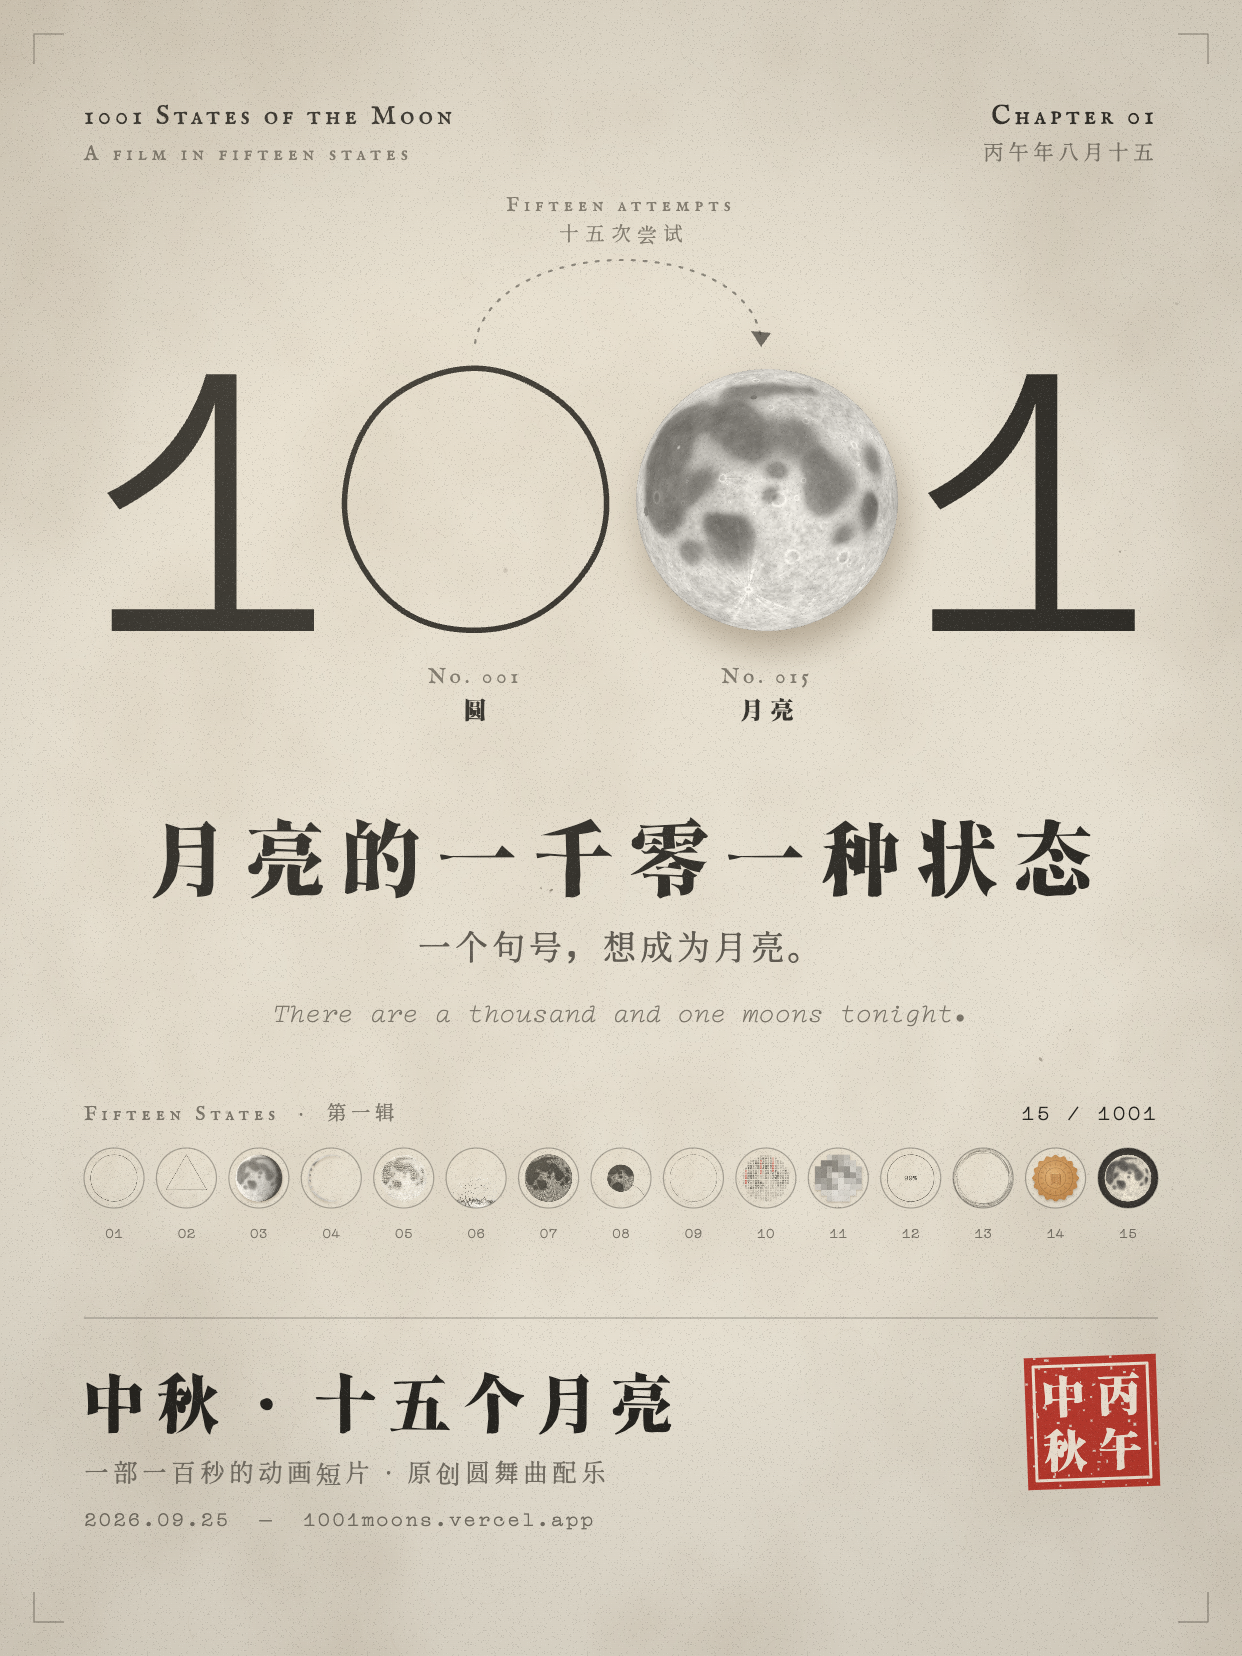
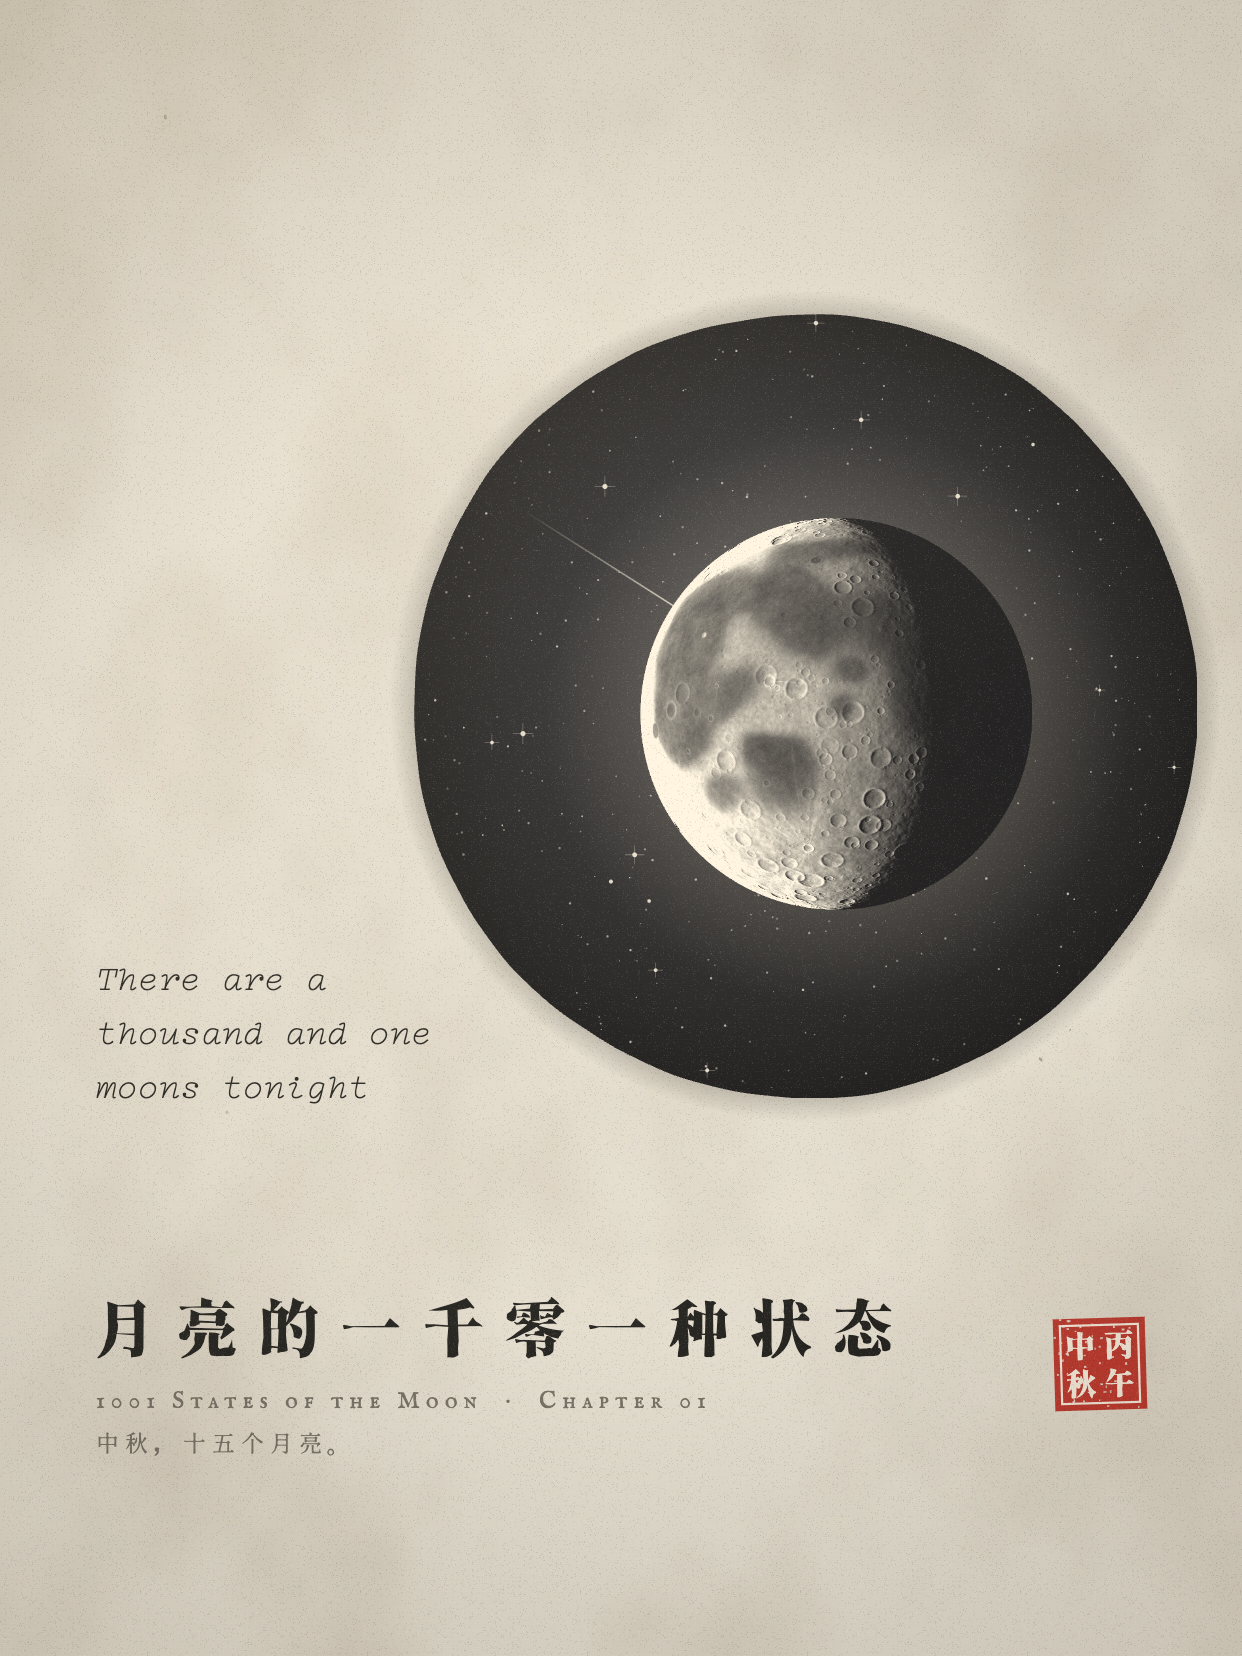
封面改版：句号里的夜空
一句打字机打出的英文，句号放大成装着星空与凸月的墨点；只留刻宋标题与印章

diff --git a/index.html b/index.html
@@ -1244,119 +1244,84 @@ function hud(ctx, e, st, opts, dark, A = 1) {
    「1○●1」——两个 0，一个是空的圆，一个是月亮
    ============================================================ */
 function renderCover() {
-  const W = 1242, H = 1656, M = 84;
+  const W = 1242, H = 1656, M = 96;
   document.body.innerHTML = '';
   document.body.style.cssText = 'margin:0;background:#121110;display:flex;justify-content:center;padding:24px 16px';
   const cv = mk(W, H); cv.id = 'cover';
   cv.style.cssText = 'display:block;width:min(100%,621px);height:auto;box-shadow:0 30px 80px rgba(0,0,0,.5)';
   document.body.appendChild(cv);
-  const x = cv.getContext('2d'), C = W / 2;
-  const SUB = '#6F6A60';
+  const x = cv.getContext('2d'), SUB = '#716B60';
   // 纸
   x.fillStyle = PAPER; x.fillRect(0, 0, W, H);
-  x.globalAlpha = .9; x.drawImage(mottle(), 0, 0, W, H); x.globalAlpha = 1;
-  // 一行行细小的纸纤维
-  const rf = mulberry(77); x.strokeStyle = 'rgba(110,85,50,.05)'; x.lineWidth = .8;
-  for (let i = 0; i < 260; i++) { const px = rf() * W, py = rf() * H, a = rf() * TAU, l = 6 + rf() * 16; x.beginPath(); x.moveTo(px, py); x.quadraticCurveTo(px + Math.cos(a + 1) * l, py + Math.sin(a + 1) * l, px + Math.cos(a) * l * 1.7, py + Math.sin(a) * l * 1.7); x.stroke(); }
+  x.globalAlpha = .95; x.drawImage(mottle(), 0, 0, W, H); x.globalAlpha = 1;
+  const rf = mulberry(77); x.strokeStyle = 'rgba(110,85,50,.045)'; x.lineWidth = .8;
+  for (let i = 0; i < 300; i++) { const px = rf() * W, py = rf() * H, a = rf() * TAU, l = 6 + rf() * 16; x.beginPath(); x.moveTo(px, py); x.quadraticCurveTo(px + Math.cos(a + 1) * l, py + Math.sin(a + 1) * l, px + Math.cos(a) * l * 1.7, py + Math.sin(a) * l * 1.7); x.stroke(); }
 
-  // 左右上角：版面标签
-  x.fillStyle = INK; x.font = FELL(27); track(x, 4); x.textBaseline = 'alphabetic';
-  x.textAlign = 'left'; x.fillText('1001 States of the Moon', M, M + 40);
-  x.textAlign = 'right'; x.fillText('Chapter 01', W - M, M + 40);
-  x.fillStyle = SUB; x.font = FELL(21); track(x, 5);
-  x.textAlign = 'left'; x.fillText('A film in fifteen states', M, M + 76);
-  x.textAlign = 'right'; x.font = ZH(400, 21); track(x, 4); x.fillText('丙午年八月十五', W - M, M + 76);
-  track(x, 0);
-
-  // ——— 主视觉：1 ○ ● 1 ———
-  const D = 262, gap = 30, cy = 500;
-  x.font = MONO(400); const asc = x.measureText('1').actualBoundingBoxAscent || 250;
-  const fs1 = 400 * (D * .98) / asc; x.font = MONO(fs1);
-  const w1 = x.measureText('1').width, bw = x.measureText('1').actualBoundingBoxRight + x.measureText('1').actualBoundingBoxLeft;
-  const total = bw * 2 + D * 2 + gap * 3, x0 = C - total / 2;
-  const base = cy + D / 2;
-  x.fillStyle = INK; x.textAlign = 'left';
-  const L1 = x.measureText('1').actualBoundingBoxLeft;
-  x.fillText('1', x0 + L1, base);
-  const rcx = x0 + bw + gap + D / 2, mcx = rcx + D + gap;
-  x.fillText('1', mcx + D / 2 + gap + L1, base);
-  // 空的圆：手画的墨线
-  x.strokeStyle = INK; x.lineWidth = 5.5; x.lineJoin = 'round'; x.beginPath();
-  for (let i = 0; i <= 240; i++) { const th = i / 240 * TAU, r = D / 2 * (1 + .006 * Math.sin(3 * th + 1.3) + .004 * Math.sin(7 * th - .4)); const px = rcx + r * Math.cos(th), py = cy + r * Math.sin(th); i ? x.lineTo(px, py) : x.moveTo(px, py); }
-  x.closePath(); x.stroke();
-  // 月亮：带着纸上的投影
-  x.save(); x.shadowColor = 'rgba(78,56,30,.38)'; x.shadowBlur = 34; x.shadowOffsetX = 6; x.shadowOffsetY = 20;
-  x.drawImage(FULL.paper, mcx - D / 2, cy - D / 2, D, D); x.restore();
-  // 从圆到月亮的一道虚线弧：十五次尝试
-  x.save(); x.setLineDash([3, 9]); x.lineCap = 'round'; x.strokeStyle = 'rgba(27,26,23,.55)'; x.lineWidth = 2.2;
-  const ax = rcx, bx = mcx, ay = cy - D / 2 - 26, hy = ay - 110;
-  x.beginPath(); x.moveTo(ax, ay); x.bezierCurveTo(ax + 20, hy, bx - 20, hy, bx - 6, ay - 4); x.stroke(); x.restore();
-  x.fillStyle = 'rgba(27,26,23,.7)'; x.beginPath(); x.moveTo(bx - 6, ay + 4); x.lineTo(bx - 16, ay - 12); x.lineTo(bx + 4, ay - 10); x.closePath(); x.fill();
-  x.textAlign = 'center'; x.fillStyle = SUB; x.font = FELL(20); track(x, 5); x.fillText('Fifteen attempts', C, hy - 22);
-  x.font = ZH(400, 20); track(x, 6); x.fillText('十五次尝试', C + 3, hy + 8); track(x, 0);
-  // 圆与月亮的小标签
-  const tag = (cx, en, zh) => { x.textAlign = 'center'; x.fillStyle = SUB; x.font = FELL(21); track(x, 4); x.fillText(en, cx, cy + D / 2 + 52); x.fillStyle = INK; x.font = ZH(600, 24); track(x, 6); x.fillText(zh, cx + 3, cy + D / 2 + 88); track(x, 0); };
-  tag(rcx, 'No. 001', '圆'); tag(mcx, 'No. 015', '月亮');
+  // ——— 一句打字机打出的话，它的句号大得装下了整片夜空 ———
+  const fs = 35, lh = fs * 1.55, base = 1098;
+  const lines = ['There are a', 'thousand and one', 'moons tonight'];
+  x.font = SERIF(fs); x.fillStyle = INK; x.textBaseline = 'alphabetic'; x.textAlign = 'left';
+  lines.forEach((l, k) => x.fillText(l, M, base - (lines.length - 1 - k) * lh));
+  const endX = M + x.measureText(lines[2]).width;
+  const r = 392, cx = Math.max(endX + 44 + r, W - M - r + 10), cy = base - r;
+  // 墨渗进纸里的一圈晕
+  const halo = x.createRadialGradient(cx, cy, r * .98, cx, cy, r * 1.06);
+  halo.addColorStop(0, 'rgba(27,26,23,.25)'); halo.addColorStop(1, 'rgba(27,26,23,0)');
+  x.fillStyle = halo; x.beginPath(); x.arc(cx, cy, r * 1.06, 0, TAU); x.fill();
+  // 句号本体：边缘带一点印刷的毛边
+  x.save(); x.beginPath();
+  for (let i = 0; i <= 720; i++) { const th = i / 720 * TAU, rr = r * (1 + .0028 * Math.sin(th * 5 + 1) + .0012 * Math.sin(th * 13 + 2) + .0005 * Math.sin(th * 37)); const px = cx + rr * Math.cos(th), py = cy + rr * Math.sin(th); i ? x.lineTo(px, py) : x.moveTo(px, py); }
+  x.closePath(); x.clip();
+  const sky = x.createRadialGradient(cx - r * .1, cy - r * .25, 0, cx, cy, r);
+  sky.addColorStop(0, '#20232C'); sky.addColorStop(.6, '#111218'); sky.addColorStop(1, '#0A0A0C');
+  x.fillStyle = sky; x.fillRect(cx - r, cy - r, 2 * r, 2 * r);
+  const rs = mulberry(314);
+  for (let i = 0; i < 520; i++) {
+    const a = rs() * TAU, d = Math.sqrt(rs()) * r * .98, sx = cx + Math.cos(a) * d, sy = cy + Math.sin(a) * d;
+    const big = rs() < .04, sz = big ? 1.4 + rs() * 1.2 : .45 + rs() * .8;
+    x.fillStyle = `rgba(244,236,218,${big ? .9 : .25 + rs() * .5})`; x.beginPath(); x.arc(sx, sy, sz, 0, TAU); x.fill();
+    if (big && rs() < .5) { x.strokeStyle = 'rgba(244,236,218,.35)'; x.lineWidth = .8; x.beginPath(); x.moveTo(sx - sz * 4, sy); x.lineTo(sx + sz * 4, sy); x.moveTo(sx, sy - sz * 4); x.lineTo(sx, sy + sz * 4); x.stroke(); }
+  }
+  // 一颗流星
+  const g1 = x.createLinearGradient(cx - r * .72, cy - r * .5, cx - r * .28, cy - r * .22);
+  g1.addColorStop(0, 'rgba(255,246,228,0)'); g1.addColorStop(1, 'rgba(255,246,228,.85)');
+  x.strokeStyle = g1; x.lineWidth = 1.6; x.lineCap = 'round'; x.beginPath(); x.moveTo(cx - r * .72, cy - r * .5); x.lineTo(cx - r * .28, cy - r * .22); x.stroke();
+  // 月亮：凸月，明暗交界线上的环形山有阴影
+  const mr = r * .5, mx = cx + r * .08, my = cy + r * .02;
+  const glow = x.createRadialGradient(mx, my, mr * .9, mx, my, mr * 2.6);
+  glow.addColorStop(0, 'rgba(255,236,200,.2)'); glow.addColorStop(.35, 'rgba(255,236,200,.05)'); glow.addColorStop(1, 'rgba(255,236,200,0)');
+  x.fillStyle = glow; x.fillRect(cx - r, cy - r, 2 * r, 2 * r);
+  x.drawImage(shadeMoon(1.05, STYLE_NIGHT, M_D()), mx - mr, my - mr, mr * 2, mr * 2);
+  x.restore();
 
   // ——— 标题 ———
-  x.textAlign = 'left';
-  const title = '月亮的一千零一种状态'; x.font = ZH(600, 82); track(x, 14);
-  const tw = x.measureText(title).width; x.fillStyle = INK;
-  x.fillText(title, C - tw / 2 + 7, 890);
-  track(x, 3); x.font = ZH(400, 34); x.fillStyle = '#4E4A43';
-  const st = '一个句号，想成为月亮。'; const sw = x.measureText(st).width;
-  softLine(x, st, C - sw / 2, 960, 99, 99, 0);
-  track(x, 0); x.font = SERIF(27); x.fillStyle = SUB;
-  const en = 'There are a thousand and one moons tonight'; const ew = x.measureText(en).width;
-  x.fillText(en, C - ew / 2 - 8, 1022);
-  x.beginPath(); x.arc(C + ew / 2 - 8 + 7, 1022 - 4, 3.6, 0, TAU); x.fill();
-
-  // ——— 十五种状态的一条缩略带 ———
-  const n = 15, d = 60, g = (W - 2 * M - n * d) / (n - 1), sy = 1178;
-  const picks = [1, .74, .32, .82, .75, .79, 1, .5, .5, .96, .56, .9, .95, .72, .1];
-  x.fillStyle = SUB; x.font = FELL(20); track(x, 5); x.textAlign = 'left'; x.fillText('Fifteen States  ·  ', M, sy - 58);
-  const fw = x.measureText('Fifteen States  ·  ').width; x.font = ZH(400, 20); track(x, 4); x.fillText('第一辑', M + fw, sy - 58);
-  x.textAlign = 'right'; x.font = MONO(22); track(x, 2); x.fillStyle = INK; x.fillText('15 / 1001', W - M, sy - 58); track(x, 0);
-  STATES.forEach((stt, i) => {
-    const TS = 260, tc = mk(TS), tx = tc.getContext('2d');
-    drawPlate(tx, TS, stt, picks[i], 7, 14, picks[i] * stt.dur, { hud: false, dpr: 1, cache: {} });
-    const cx = M + d / 2 + i * (d + g), R = TS * RU, cr = R * 1.28;
-    x.save(); x.beginPath(); x.arc(cx, sy, d / 2, 0, TAU); x.clip();
-    x.drawImage(tc, TS / 2 - cr, TS / 2 - cr, cr * 2, cr * 2, cx - d / 2, sy - d / 2, d, d); x.restore();
-    x.strokeStyle = 'rgba(27,26,23,.35)'; x.lineWidth = 1.2; x.beginPath(); x.arc(cx, sy, d / 2, 0, TAU); x.stroke();
-    x.fillStyle = SUB; x.font = MONO(15); x.textAlign = 'center'; x.fillText(pad(i + 1, 2), cx, sy + d / 2 + 30);
-  });
-  x.textAlign = 'left';
-
-  // ——— 分隔线 + 落款 ———
-  x.strokeStyle = 'rgba(27,26,23,.4)'; x.lineWidth = 1; x.beginPath(); x.moveTo(M, 1318); x.lineTo(W - M, 1318); x.stroke();
-  x.fillStyle = INK; x.font = ZH(600, 64); track(x, 10); x.fillText('中秋 · 十五个月亮', M - 2, 1428); track(x, 0);
-  x.fillStyle = SUB; x.font = ZH(400, 25); track(x, 4); x.fillText('一部一百秒的动画短片 · 原创圆舞曲配乐', M, 1482);
-  x.font = MONO(21); track(x, 2); x.fillText('2026.09.25  —  1001moons.vercel.app', M, 1526); track(x, 0);
+  x.fillStyle = INK; x.font = ZH(600, 62); track(x, 20);
+  x.fillText('月亮的一千零一种状态', M - 2, 1352);
+  x.fillStyle = SUB; x.font = FELL(24); track(x, 6);
+  x.fillText('1001 States of the Moon  ·  Chapter 01', M, 1408);
+  x.font = ZH(400, 23); track(x, 6);
+  softLine(x, '中秋，十五个月亮。', M, 1452, 99, 99, 0);
+  track(x, 0);
   // 印章
-  const sz = 132, sx = W - M - sz, sy2 = 1356;
-  x.save(); x.translate(sx + sz / 2, sy2 + sz / 2); x.rotate(-.035); x.translate(-sz / 2, -sz / 2);
+  const sz = 92, sx = W - M - sz, sy = 1318;
+  x.save(); x.translate(sx + sz / 2, sy + sz / 2); x.rotate(-.03); x.translate(-sz / 2, -sz / 2);
   x.fillStyle = RED; x.fillRect(0, 0, sz, sz);
-  x.strokeStyle = '#F1E6D6'; x.lineWidth = 3; x.strokeRect(9, 9, sz - 18, sz - 18);
-  x.fillStyle = '#F1E6D6'; x.font = ZH(700, sz * .34); x.textAlign = 'center'; x.textBaseline = 'middle';
+  x.strokeStyle = '#F1E6D6'; x.lineWidth = 2.2; x.strokeRect(7, 7, sz - 14, sz - 14);
+  x.fillStyle = '#F1E6D6'; x.font = ZH(700, sz * .33); x.textAlign = 'center'; x.textBaseline = 'middle';
   [['丙', .71, .3], ['午', .71, .71], ['中', .29, .3], ['秋', .29, .71]].forEach(([t, a, b]) => x.fillText(t, a * sz, b * sz));
-  const r = mulberry(12); x.fillStyle = 'rgba(227,221,207,.9)'; for (let i = 0; i < 70; i++) x.fillRect(r() * sz, r() * sz, 1 + r() * 2, 1 + r() * 2);
+  const rr = mulberry(12); x.fillStyle = 'rgba(227,221,207,.9)'; for (let i = 0; i < 50; i++) x.fillRect(rr() * sz, rr() * sz, 1 + rr() * 1.6, 1 + rr() * 1.6);
   x.restore(); x.textAlign = 'left'; x.textBaseline = 'alphabetic';
 
-  // 裁切标记
-  x.strokeStyle = SUB; x.globalAlpha = .6; x.lineWidth = 1.5;
-  const cm = 34, cl = 30;
-  [[cm, cm, 1, 1], [W - cm, cm, -1, 1], [cm, H - cm, 1, -1], [W - cm, H - cm, -1, -1]].forEach(([a, b, dx, dy]) => { x.beginPath(); x.moveTo(a + dx * cl, b); x.lineTo(a, b); x.lineTo(a, b + dy * cl); x.stroke(); });
-  x.globalAlpha = 1;
-  // 暖光、暗角、颗粒、灰尘
-  const kl = x.createRadialGradient(W * .3, H * .18, 0, W * .3, H * .18, H * .9);
-  kl.addColorStop(0, 'rgba(255,240,212,.2)'); kl.addColorStop(1, 'rgba(255,240,212,0)'); x.fillStyle = kl; x.fillRect(0, 0, W, H);
-  const vg = x.createRadialGradient(C, H / 2, H * .32, C, H / 2, H * .82);
-  vg.addColorStop(0, 'rgba(0,0,0,0)'); vg.addColorStop(1, 'rgba(80,55,25,.2)'); x.fillStyle = vg; x.fillRect(0, 0, W, H);
+  // 光、暗角、颗粒、灰尘
+  const kl = x.createRadialGradient(W * .22, H * .12, 0, W * .22, H * .12, H);
+  kl.addColorStop(0, 'rgba(255,240,212,.22)'); kl.addColorStop(1, 'rgba(255,240,212,0)'); x.fillStyle = kl; x.fillRect(0, 0, W, H);
+  const vg = x.createRadialGradient(W / 2, H / 2, H * .3, W / 2, H / 2, H * .82);
+  vg.addColorStop(0, 'rgba(0,0,0,0)'); vg.addColorStop(1, 'rgba(80,55,25,.22)'); x.fillStyle = vg; x.fillRect(0, 0, W, H);
   x.fillStyle = x.createPattern(GRAIN[0], 'repeat'); x.fillRect(0, 0, W, H);
-  for (let f = 0; f < 4; f++) filmDirt(x, W, 40 + f * 7, false);
+  for (let f = 0; f < 3; f++) filmDirt(x, W, 40 + f * 7, false);
   window.__coverReady = true;
 }
+const M_D = () => M.D;
 
 /* ============================================================
    播放器

diff --git a/README.md b/README.md
@@ -1,6 +1,6 @@
 # 1001 States of the Moon · 月亮的一千零一种状态
 
-<img src="cover-xhs.png" width="360" alt="封面：1○●1，一个空的圆和一轮月亮">
+<img src="cover-xhs.png" width="360" alt="封面：一句话的句号，大得装下了整片夜空">
 
 > 今晚有一千零一种月亮。
 
